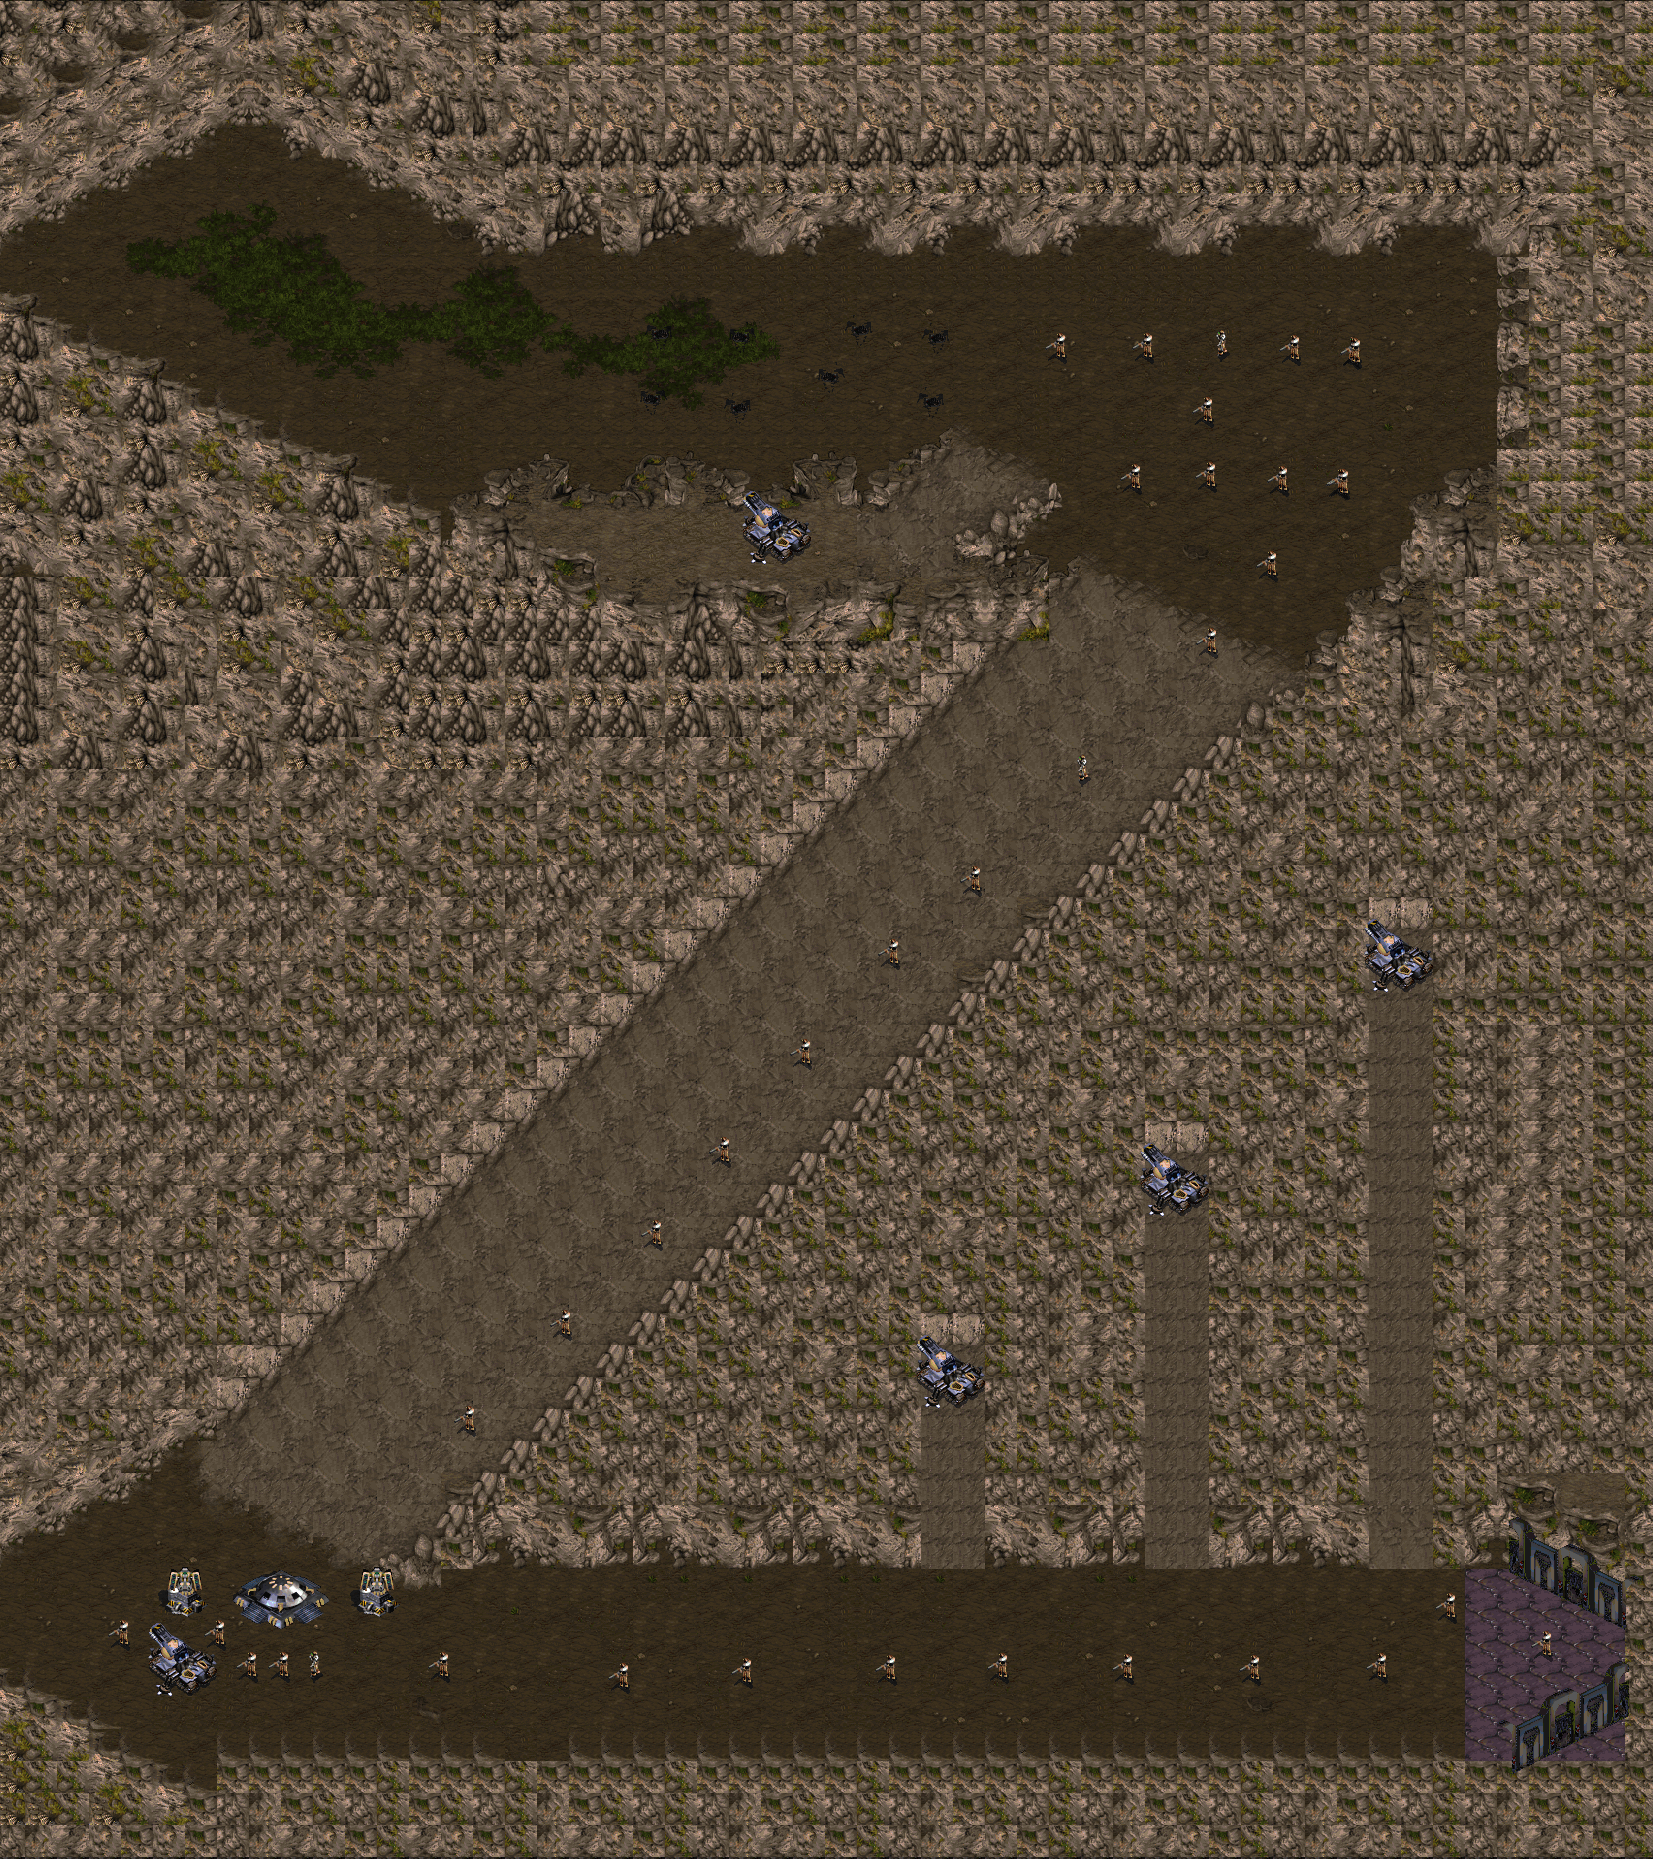
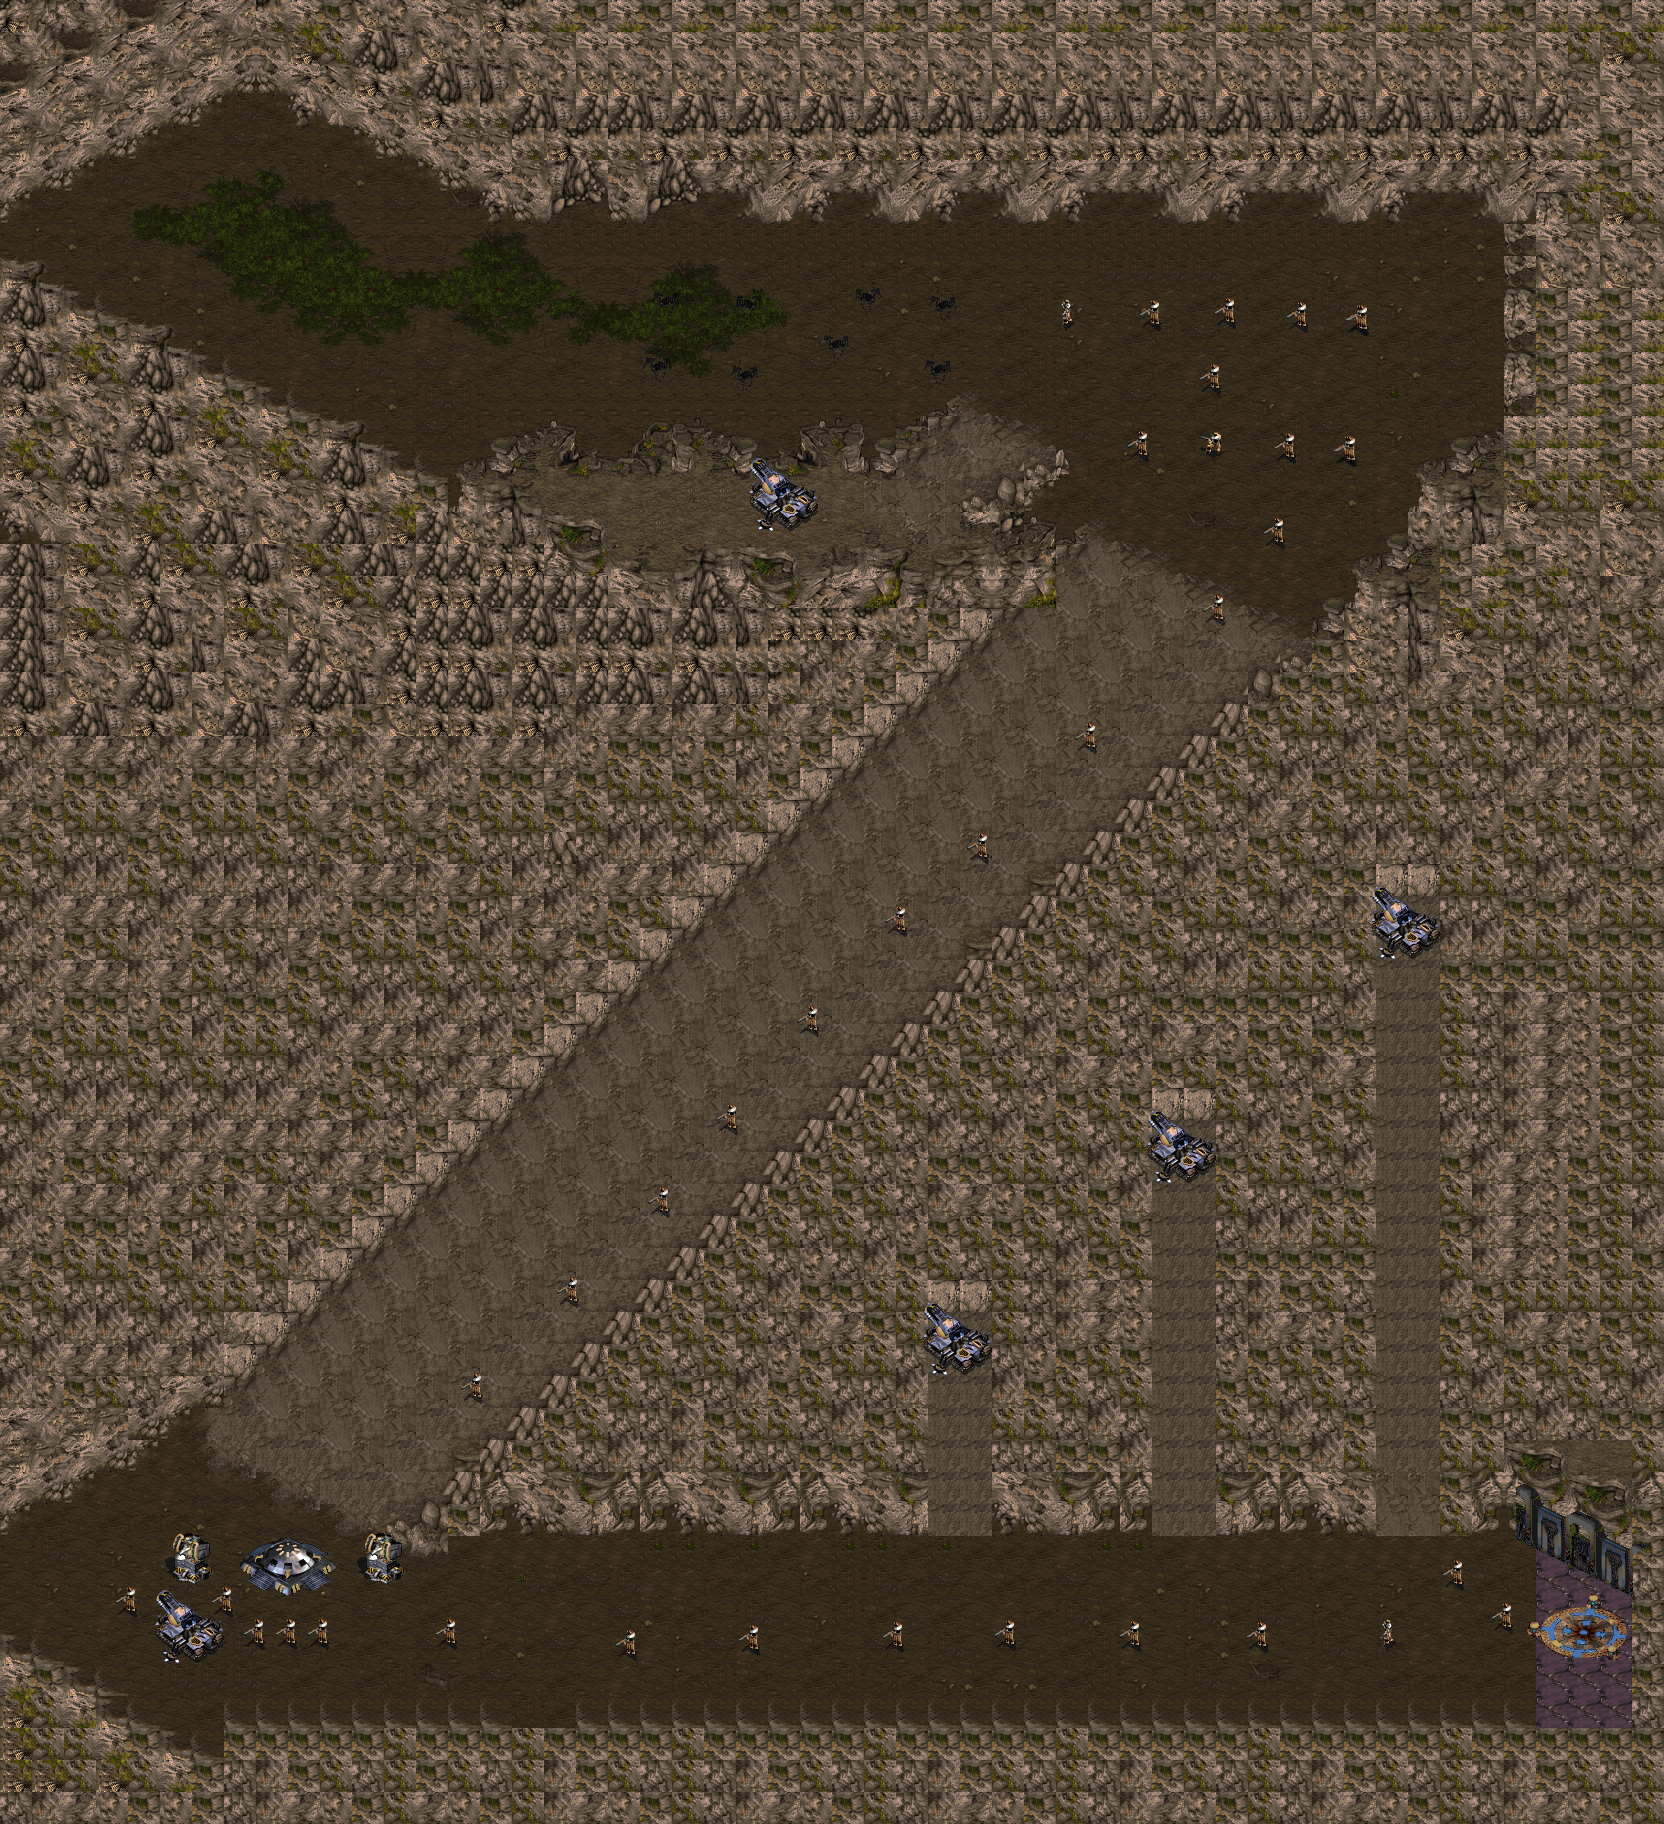
Stage Image 교체, 업그레이드 계산기 설명 추가, tip 정보 준비

diff --git a/data/game/game_tips.js b/data/game/game_tips.js
@@ -1,0 +1,62 @@
+game_tips=[
+    {
+        "caption":"팁 표시",
+        "explanation":"이 메세지는 게임에 도움되는 팁들을 표시합니다.<br>12시의 사이언스 퍼실리티를 띄워 이 팁을 비활성화할 수 있습니다."
+    },
+    {
+        "caption":"마나관련 아이템",
+        "explanation":"마나석과 마나증폭기는 각각 마나회복량과 마나최대치를 증가시킵니다."
+    },
+    {
+        "caption":"스킬사용",
+        "explanation":"12시 방향 스타게이트에서 스킬을 사용할 수 있습니다."
+    },
+    {
+        "caption":"함정요소",
+        "explanation":"각 스테이지에는 함정이 도사리고있습니다. 항상 조심하십시오."
+    },
+    {
+        "caption":"보스존 진입",
+        "explanation":"모든 유닛을 처치하면 보스존으로 가는 문이 열립니다.<br>입장시 모두가 보스존으로 진입합니다."
+    },
+    {
+        "caption":"모든스킬확인",
+        "explanation":"미션 오브젝트(F10+J)에서 스킬을 확인할 수 있습니다."
+    },
+    {
+        "caption":"체력 포션 사용",
+        "explanation":"12시 방향 로보틱스 퍼실리티에서 셔틀을 뽑아 체력포션을 사용할 수 있습니다."
+    },
+    {
+        "caption":"마나 포션 사용",
+        "explanation":"12시 방향 로보틱스 퍼실리티에서 리버를 뽑아 마나포션을 사용할 수 있습니다."
+    },
+    {
+        "caption":"스킬 배우기",
+        "explanation":"전직을 하더라도 새로운 스킬을 사용하려면 스킬북을 구매해야합니다."
+    },
+    {
+        "caption":"궁극기",
+        "explanation":"커세어 스킬(궁극기)을 사용하려면 스킬북이 3개 필요합니다."
+    },
+    {
+        "caption":"보스의 궁극기",
+        "explanation":"각 보스는 고유한 궁극기를 가지고 있습니다. 주의하십시오."
+    },
+    {
+        "caption":"부활",
+        "explanation":"다른 팀원이 해당 스테이지를 클리어하면 모두 부활합니다."
+    },
+    {
+        "caption":"팀 스플래쉬",
+        "explanation":"스플래쉬데미지를 주는 유닛들은 아군에게도 피해를 입힐 수 있으니 주의하십시오."
+    },
+    {
+        "caption":"유지기",
+        "explanation":"여러 스킬을 조합하여 시전하면 더 좋은 효율을 보이는 경우도 있습니다."
+    },
+    {
+        "caption":"돌연변이",
+        "explanation":"게임이 쉽게 느껴진다면 캐릭터를 고르기 전에 돌연변이원을 추가해 재미난 규칙들을 추가할 수 있습니다."
+    }
+]

diff --git a/stage_info_section.js b/stage_info_section.js
@@ -7,7 +7,7 @@ for(i = 1; i <= 10; ++i)
     innerHTML_str += getStageViewerHTML(i);
 }
 stageInfoDiv.innerHTML = innerHTML_str;
-function toggleStageView(stageNum){
+function toggleStageImageView(stageNum){
     var stageViewDiv = document.getElementById("StageView"+stageNum);
     var stageImage = stageViewDiv.getElementsByClassName("stageImage")[0];
 
@@ -15,15 +15,15 @@ function toggleStageView(stageNum){
     if (stageImage.src != stageImageSource)
         stageImage.src = stageImageSource;
 
-    if(stageViewDiv.style.display == "none")
-        stageViewDiv.style.display = "block";
+    if(stageImage.style.display == "none")
+        stageImage.style.display = "block";
     else
-        stageViewDiv.style.display = "none";
+        stageImage.style.display = "none";
 }
 function getStageViewerHTML(stageNum){
     var innerHTML_str = "\
-    <div class='StageViewButton' onclick=\"toggleStageView("+stageNum+")\">스테이지"+stageNum+" 접기/펼치기</div>\
-    <div class='StageView' id='StageView"+stageNum+"' style='display:none'>\
+    <h3>스테이지"+stageNum+"</h3>\
+    <div class='StageView' id='StageView"+stageNum+"'>\
         <div>\
             <span class='DPTEXT_08'>S </span>\
             <span class='DPTEXT_11'>T </span>\
@@ -46,7 +46,8 @@ function getStageViewerHTML(stageNum){
         innerHTML_str+="\
         </div>\
         <div>\
-            <img class='stageImage' src=''>\
+            <span class='StageViewButton DPTEXT_04' onclick='toggleStageImageView("+stageNum+")'>이미지 보기/숨기기</span>\
+            <img class='stageImage' style='display:none' src=''>\
         </div>\
     </div>";
 

diff --git a/upgrade_info_section.js b/upgrade_info_section.js
@@ -1,7 +1,12 @@
 var upgradeInfoDiv = document.getElementById("UpgradeInfomation").getElementsByTagName('div')[0];
 
 var innerHTML_str = "\
-<h3>업그레이드 선택</h3>\
+<h3>사용방법</h3>\
+<p>\
+1. 좌측 건물을 클릭하고 업그레이트 버튼을 클릭하여 원하는 업그레이드 정보를 불러오세요.<br>\
+2. 우측에 세가지 방식의 계산이 준비되어있습니다. 원하는 값들을 입력하고 계산버튼을 눌러 계산결과를 확인하세요.<br>\
+3. 다른 업그레이드 정보가 필요하다면 버튼 왼쪽의 칸에 직접 입력할 수도 있습니다.\
+</p>\
 <div class='upgradeInfomationGrid'>\
   <div class='upgradeBuildings'>";
     for (var i = 0; i < upgradeData.length; ++i){

diff --git a/index.html b/index.html
@@ -124,7 +124,7 @@
                         iFrame.width  = "1133px";
                         iFrame.height = "911px";
                     }
-                    console.log(iFrame.width,iFrame.height);
+                    //console.log(iFrame.width,iFrame.height);
                 }
                 
             </script>
@@ -132,7 +132,7 @@
             </div>
         </section>
         <hr>
-        <section id="NuclearCalculator">
+        <section id="EndOfSections">
             <div>
                 <span>The End</span>
             </div>

diff --git a/data/game/mutator_info_json.js b/data/game/mutator_info_json.js
@@ -59,4 +59,8 @@ mutatorData=[
         "name":"방전",
         "explanation":"플레이어의 모든 유닛의 쉴드와 마나가 0으로 고정됩니다."
     },
+    {
+        "name":"ㅂㅅ",
+        "explanation":"아직 밝혀지지 않은 돌연변이원입니다."
+    },
 ];

diff --git a/item_info_section.js b/item_info_section.js
@@ -1,0 +1,3 @@
+var itemInfoDiv = document.getElementById("ItemInfomation").getElementsByTagName('div')[0];
+innerHTML_str = "준비중";
+itemInfoDiv.innerHTML = innerHTML_str;

diff --git a/mutator_info_section.css b/mutator_info_section.css
@@ -1,4 +1,4 @@
 #MutatorInfomation div{
-    margin-bottom: 5px;
     background-color: black;
+    padding:5px
 }
